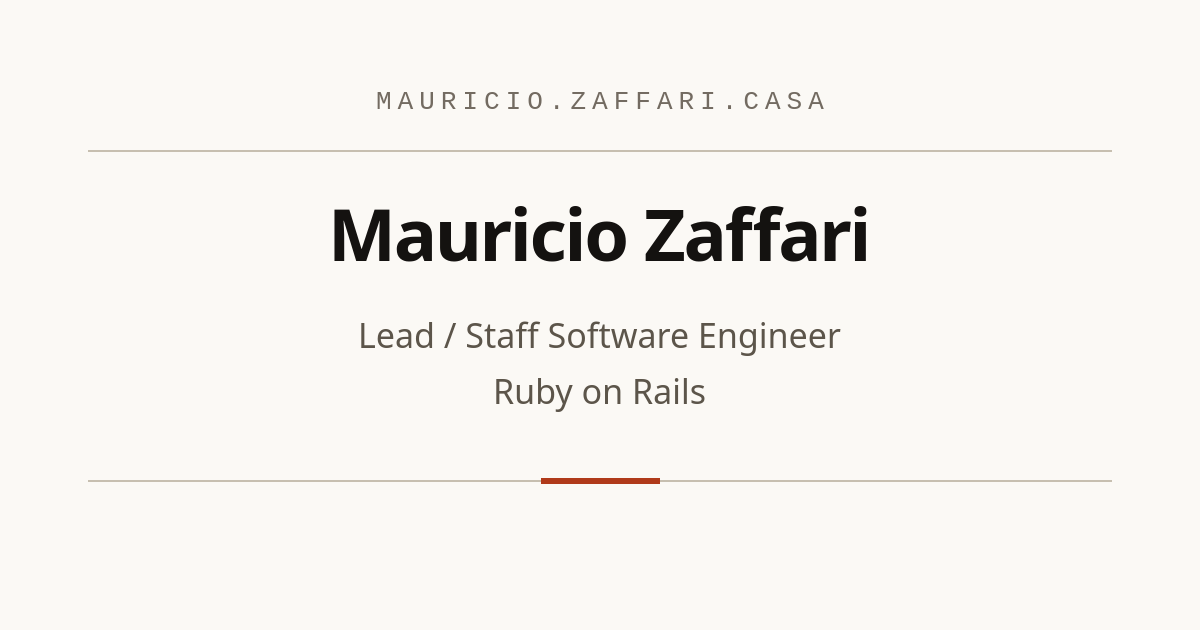
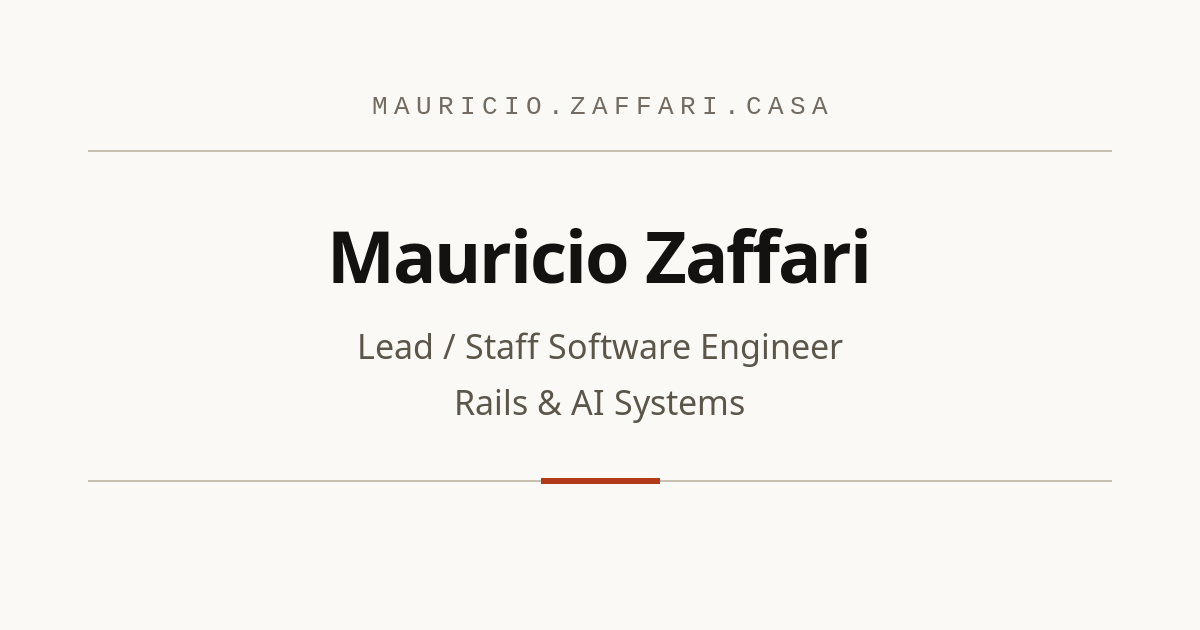
Lead the headline with Rails and AI systems
The share card measures the headline at 42pt against a 1024px measure, which caps any replacement near the previous length; the longer rewording proposed in review would abort site:images and ship no card. Rails stays in the resume header, where an ATS reads it. The page is read by people.

diff --git a/data/en/site-profile.md b/data/en/site-profile.md
@@ -4,9 +4,9 @@ type: site_profile
 locale: en
 status: published
 confidentiality: public
-updated: "2026-10-03"
+updated: "2026-10-05"
 name: Mauricio Zaffari
-headline: Lead / Staff Software Engineer | Ruby on Rails
+headline: Lead / Staff Software Engineer | Rails & AI Systems
 region: Brazil
 timezone: UTC-3
 work_mode: Remote, with daily overlap across UK and US business hours

diff --git a/data/pt-BR/site-profile.md b/data/pt-BR/site-profile.md
@@ -4,9 +4,9 @@ type: site_profile
 locale: pt-BR
 status: published
 confidentiality: public
-updated: "2026-10-03"
+updated: "2026-10-05"
 name: Mauricio Zaffari
-headline: Lead / Staff Software Engineer | Ruby on Rails
+headline: Lead / Staff Software Engineer | Rails & AI Systems
 region: Brasil
 timezone: UTC-3
 work_mode: >-
